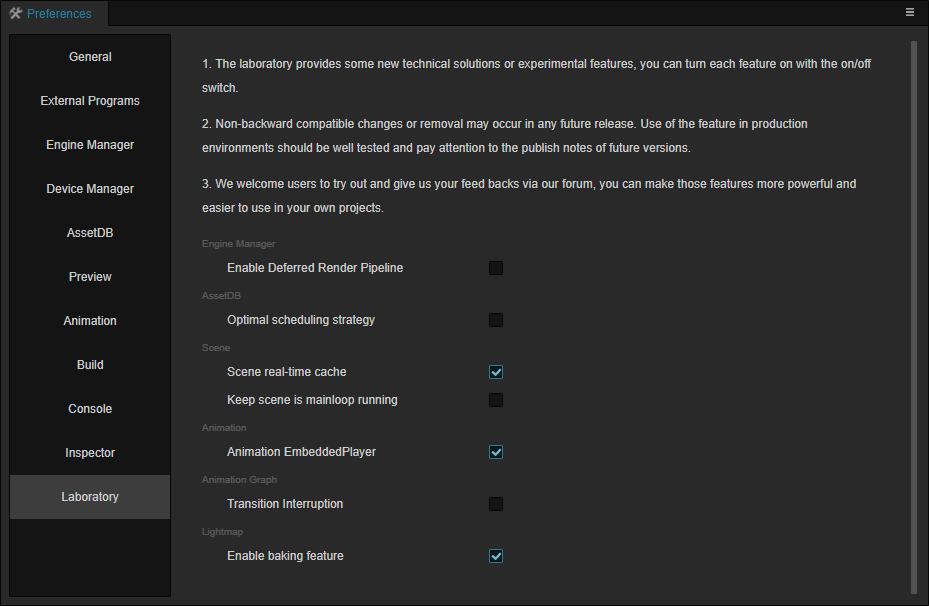
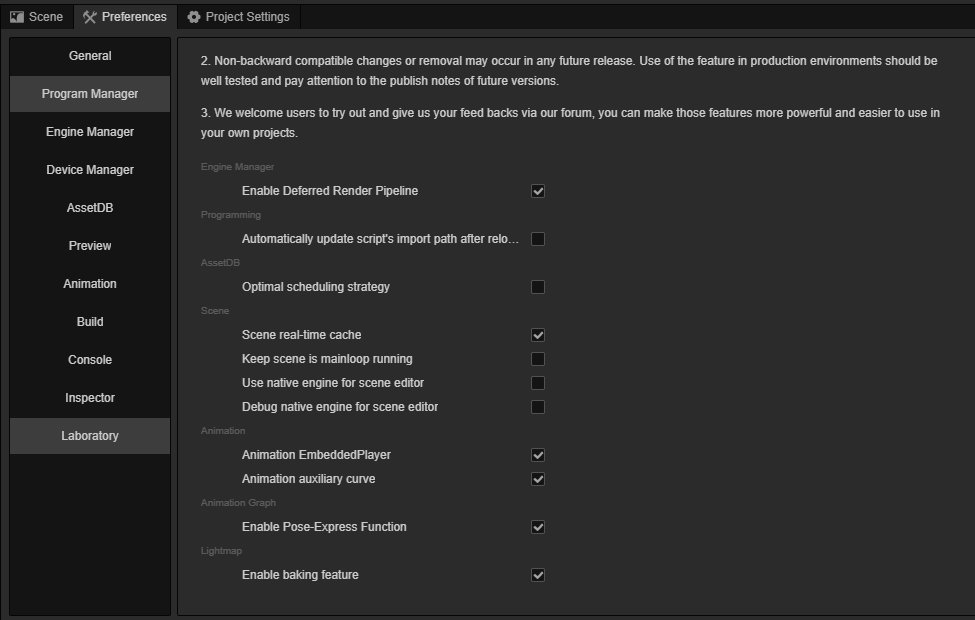
+ 3.8 laboratory update

diff --git a/en/editor/preferences/index.md b/en/editor/preferences/index.md
@@ -190,16 +190,25 @@ The **Laboratory** tab will occasionally provide some new technical solutions or
 
 ![laboratory](./index/laboratory.png)
 
-- **Enable Deferred Render Pipeline**: Enable or disable the Deferred Render Pipeline. Deferred Render Pipeline is disable by default. Please refer to [Deferred Render Pipeline](../../render-pipeline/builtin-pipeline.md#Deferred%Render%Pipeline) for more information.
-- **Optimal scheduling strategy**: This strategy tries to merge processes that repeatedly import assets multiple times to reduce the number of scheduling
-- **Scene Real-time Cache**: This option is enabled by default and is mainly used to cache scene data to the `temp/scene/[SCENE_UUID]/[TIME].json` file in the project directory at regular intervals (currently 5s) during scene editing. In case of emergencies such as scene crash, process stuck, etc., a popup window will be displayed when the editor is opened again to indicate whether to apply the most recent scene file in the cache.
+- **Enable Deferred Rendering Pipeline**: enables or disables the deferred rendering pipeline. By default, deferred rendering pipelines are disabled. For details, see [Deferred Render Pipeline](../../render-pipeline/builtin-pipeline.md#%E5%BB%B6%E8%BF%9F%E6%B8%B2%E6%9F%93%E7%AE%A1%E7%BA%BF).
 
-  > **Note**: in daily use, as long as the scene is opened normally, all the scene files cached before the current scene is opened will be cleared. If you have special needs to view the specified scene files in the cache, please close the corresponding scene in the editor first.
+- **Automatically update script's import path after relocation**: when enabled, the import part of the script will be automatically modified and relocated to the new location when you move the script in the editor.
 
-- **Keep scene is mainloop running**: Allow scenes to remain in a rendering loop
-- **Animation EmbeddedPlayer**: This feature allows users to play other particles and animations simultaneously while editing animations
-- **Transition Interruption**: Whether to enable transition breaks in the Marionette animation system
-- **Enable baking feature**: Used to enable the Lightmapping. For details, please refer to the [Lightmapping](./../../concepts/scene/light/lightmap.md) documentation.
+- **Optimized scheduling strategy**: This policy will try to merge resources when importing them multiple times repeatedly to reduce the number of scheduling times.
+
+- **Scene real-time cache**: this item is enabled by default, it is mainly used to cache scene files to `temp/scene/[SCENE_UUID]/[TIME].json` file in project directory every once in a while during scene editing (the current time interval is 5s). In case of unexpected situation, such as scene crash, process crash, etc., when you open the editor again, a popup window will prompt you whether to apply the latest scene file in the cache.
+
+  > **Note**: In daily use, as long as the scene is opened normally, all scene files cached before the current scene is opened will be cleared. If you have a special need to view the cache files of a specific scene, please close the corresponding scene in the editor first.
+
+- **Keep scene main loop running**: whether or not to allow the scene to be rendered in the same way as in the preview with a constant rendering loop.
+- **Enable native engine loading scene editor**: when enabled, the rendering module inside the editor will use the native engine.
+- **Debug native engine for scene editor**: whether or not the native engine scene can be enabled. When this option is enabled, it will prevent the native engine from starting and a dialog box will pop up, click to confirm before it will continue to start. It is mainly used for debugging the logic inside the scene after the native engine has been activated.
+
+- **Animation Embedded Player**: This feature supports the user to synchronize with other particles and animations while editing the animation
+- **Animation Auxiliary Curve**: If or not the animation auxiliary curve function is enabled, please check [Auxiliary Curve Edit View](../../animation/animation-auxiliary-curve.md) for details.
+
+- **Enable Pose-Express Function**: If or not enable the animation gesture map function, please check [Programmatic Animation](../../animation/animation-auxiliary-curve.md) for more details.
+- **Enable baking feature**: Use to enable the baking function, please refer to [Light Mapping](../../concepts/scene/light/lightmap.md)
 
 ### Caution
 

diff --git a/zh/editor/preferences/index.md b/zh/editor/preferences/index.md
@@ -202,6 +202,8 @@
 
 - **启用延迟渲染管线**：启用或者禁用延迟渲染管线。在默认情况下，延迟渲染管线处于关闭状态。详情可参考 [延迟渲染管线](../../render-pipeline/builtin-pipeline.md#%E5%BB%B6%E8%BF%9F%E6%B8%B2%E6%9F%93%E7%AE%A1%E7%BA%BF)。
 
+- **移动脚本自动修改导入路径**：启用后，在编辑器中移动脚本时，脚本的 import 部分会自动修改。
+
 - **优化调度策略**：该策略会尝试在多次重复导入资源时进行合并，以减少调度次数。
 
 - **场景即时缓存**：该项默认开启，主要用于在场景编辑过程中每隔一段时间（目前时间间隔为 5s）便将场景文件缓存到项目目录下的 `temp/scene/[SCENE_UUID]/[TIME].json` 文件中。如遇突发情况比如场景崩溃、进程卡死等，再次打开编辑器时将会弹窗提示是否应用缓存内最近一次的场景文件。
@@ -209,9 +211,14 @@
   > **注意**：在日常使用中，只要场景正常打开了，那么当前场景在打开之前缓存的所有场景文件都会被清空。如有特殊需求需要查看指定场景的缓存文件，请先在编辑器中关闭对应场景。
 
 - **保持场景主循环运行**：是否允许场景的渲染方式和预览时一样不断的进行渲染循环
+- **启用原生引擎加载场景编辑器**：启用后编辑器内的渲染模块将使用原生引擎。
+- **调试原生引擎场景**：是否可以开启原生引擎场景，这个选项开启后，会阻止原生引擎启动，弹出一个对话框，点击确认后才会继续启动。主要是用于调试原生化后的场景内的逻辑的。
+
 - **动画嵌入播放器**：此功能支持用户在编辑动画时，同步配合播放其他粒子和动画
-- **过渡中断**：是否在 Marionette 动画系统中启用过渡中断功能
-- **开启烘焙功能**：用于开启烘焙功能，详情可参考 [光照贴图](./../../concepts/scene/light/lightmap.md)。
+- **动画辅助曲线**：是否启用动画辅助曲线功能，详情请查看 [辅助曲线编辑视图](../../animation/animation-auxiliary-curve.md)
+
+- **开启姿态图功能**：是否启用动画姿态图功能，详情请查看 [程序式动画](../../animation/marionette/procedural-animation/index.md)
+- **开启烘焙功能**：用于开启烘焙功能，详情可参考 [光照贴图](./../../concepts/scene/light/lightmap.md)
 
 ### 注意事项
 
